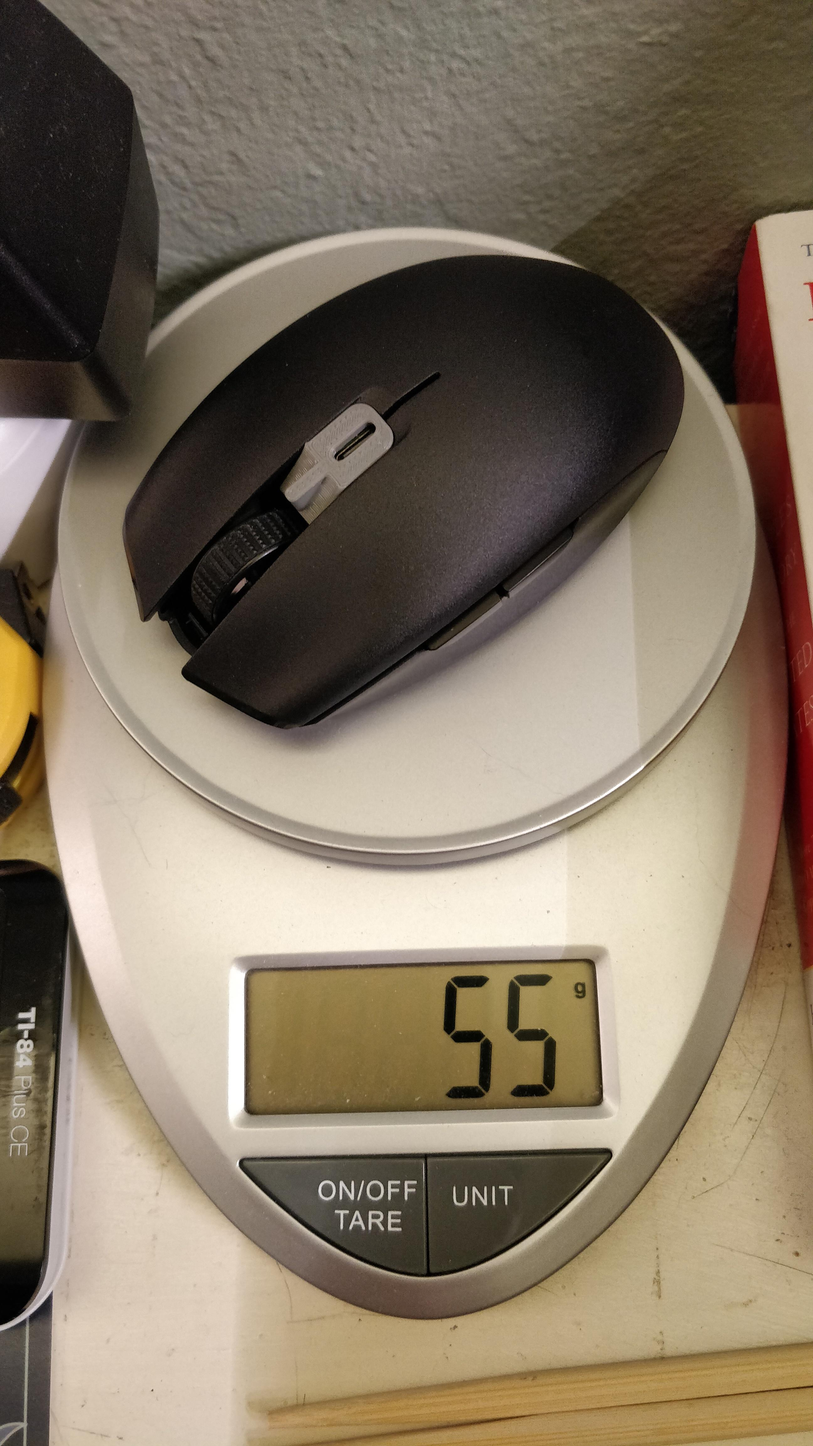
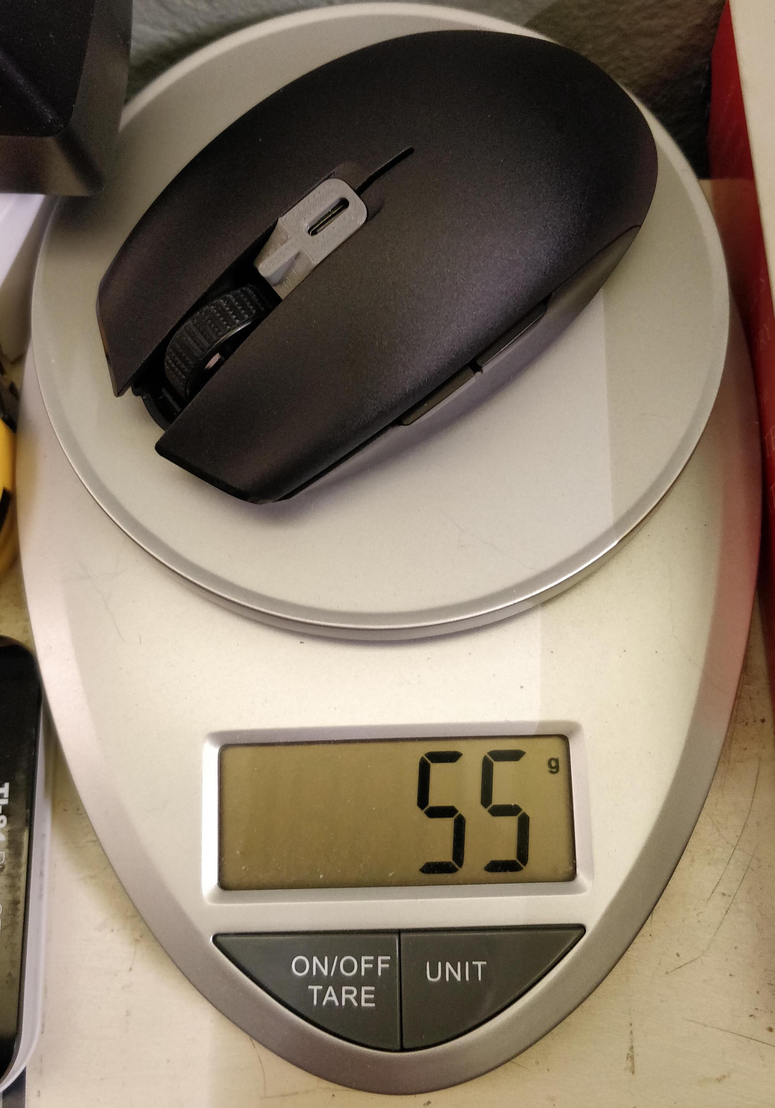
its a jpg not a png

diff --git a/README.md b/README.md
@@ -9,17 +9,17 @@ If you liked or used this design, consider supporting me here: https://www.buyme
 
 The goal of this mod was to nondestructively reduce the weight of the mouse while maintaining functionality and structural integrity.
 
-![](img/glamour.png)
+![](img/glamour.jpg)
 
 The stock mouse is made of 3 main parts: Lower Shell, Upper Shell, and Inner Skeleton.
 
 I removed the Inner Skeleton of the mouse and replaced all its functions with various 3D printed parts.
 
-![](img/guts.png)
+![](img/guts.jpg)
 
 The final weight of the mouse fully assembled is ~56 grams.
 
-![](img/scale.png)
+![](img/scale.jpg)
 
 This image shows the correct orientation for printing each part. Add supports as you see fit.
 
